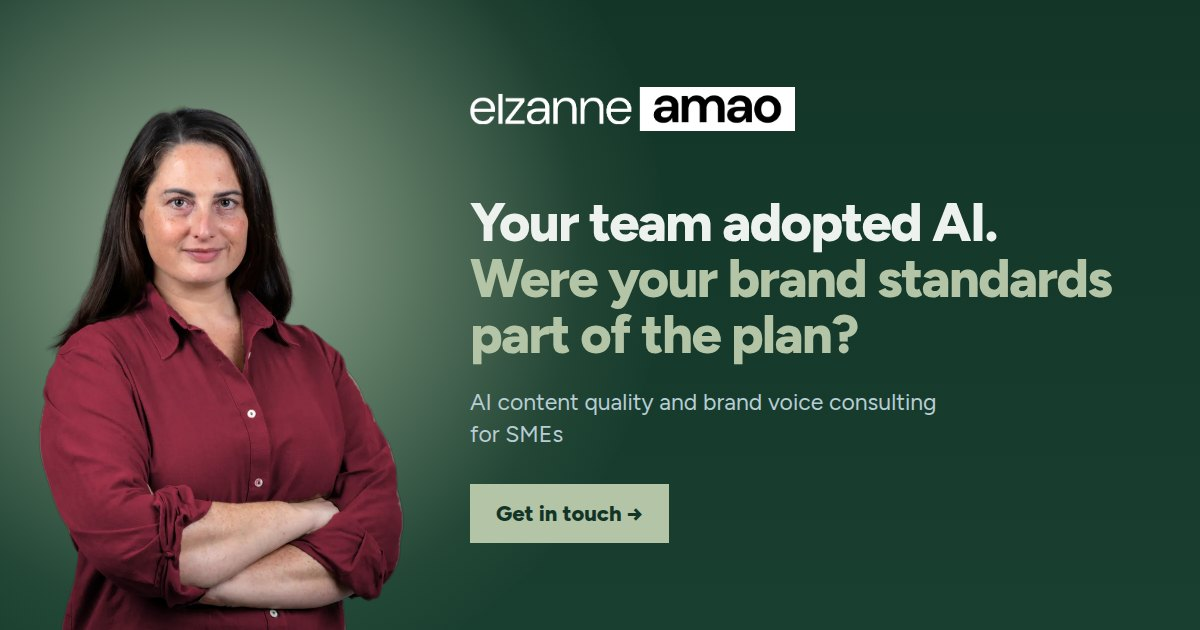
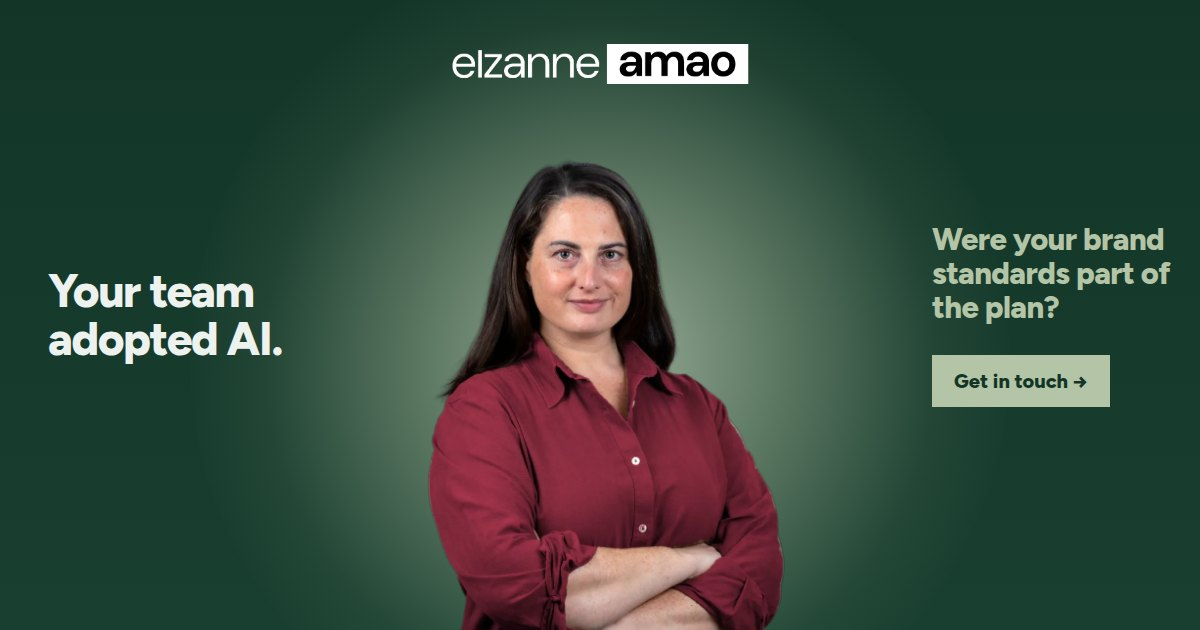
Fix in-page form submit on Netlify, WhatsApp-safe preview image, shorter titles
Netlify strips data-netlify from deployed HTML, so the submit handler
now finds forms by their hidden form-name field. The preview image is
recomposed so its centre square (WhatsApp's crop) shows the logo and
portrait, and its URL is versioned to refresh cached previews. Titles
over 60 characters are shortened.

Claude-Session: https://claude.ai/code/session_01W2eg56KgkHtMgtU5HhNPaQ

diff --git a/index.html b/index.html
@@ -44,19 +44,19 @@
   <link rel="icon" type="image/png" sizes="32x32" href="images/favicon-32.png">
   <link rel="icon" type="image/png" sizes="512x512" href="images/favicon-512.png">
   <link rel="apple-touch-icon" href="images/apple-touch-icon.png">
-<title>Elzanne Amao Consulting — AI content quality and brand voice consulting for SMEs</title>
+<title>Elzanne Amao — AI content and brand voice consulting</title>
 <meta name="description" content="Independent AI content consulting for businesses where AI tools are already in use. I audit content quality, diagnose brand voice drift, and build documented systems your team owns. Based in Cape Town, working remotely.">
 <link rel="canonical" href="https://elzanneamao.netlify.app/">
-<meta property="og:title" content="Elzanne Amao Consulting — AI content quality and brand voice consulting for SMEs">
+<meta property="og:title" content="Elzanne Amao — AI content and brand voice consulting">
 <meta property="og:description" content="Independent AI content consulting for businesses where AI tools are already in use. I audit content quality, diagnose brand voice drift, and build documented systems your team owns.">
 <meta property="og:type" content="website">
 <meta property="og:url" content="https://elzanneamao.netlify.app/">
-<meta property="og:image" content="https://elzanneamao.netlify.app/images/og-image.jpg">
+<meta property="og:image" content="https://elzanneamao.netlify.app/images/og-image.jpg?v=2">
 <meta property="og:locale" content="en_ZA">
 <meta name="twitter:card" content="summary_large_image">
-<meta name="twitter:title" content="Elzanne Amao Consulting — AI content quality and brand voice consulting for SMEs">
+<meta name="twitter:title" content="Elzanne Amao — AI content and brand voice consulting">
 <meta name="twitter:description" content="Independent AI content consulting for businesses where AI tools are already in use. I audit content quality, diagnose brand voice drift, and build documented systems your team owns.">
-<meta name="twitter:image" content="https://elzanneamao.netlify.app/images/og-image.jpg">
+<meta name="twitter:image" content="https://elzanneamao.netlify.app/images/og-image.jpg?v=2">
 <script type="application/ld+json">
 {
   "@context": "https://schema.org",
@@ -133,7 +133,7 @@
 <link rel="preconnect" href="https://fonts.googleapis.com">
 <link rel="preconnect" href="https://fonts.gstatic.com" crossorigin>
 <link href="https://fonts.googleapis.com/css2?family=Figtree:wght@400..800&display=swap" rel="stylesheet">
-<link rel="stylesheet" href="site.css?v=13">
+<link rel="stylesheet" href="site.css?v=14">
 <style>
   /* Homepage-only styles. Shared styles are in site.css */
   .hero-band{overflow:hidden;padding:96px 0 0;background:linear-gradient(180deg,var(--night) 0%,var(--night-2) 100%)}
@@ -511,6 +511,6 @@
   </div>
 </footer>
 
-<script src="site.js?v=13"></script>
+<script src="site.js?v=14"></script>
 </body>
 </html>

diff --git a/inscape-case-study.html b/inscape-case-study.html
@@ -28,24 +28,24 @@
   <link rel="icon" type="image/png" sizes="32x32" href="images/favicon-32.png">
   <link rel="icon" type="image/png" sizes="512x512" href="images/favicon-512.png">
   <link rel="apple-touch-icon" href="images/apple-touch-icon.png">
-<title>Restructuring a BA Degree for Distance Delivery — Elzanne Amao</title>
+<title>Restructuring a BA Degree for Distance Delivery</title>
 <meta name="description" content="A complete curriculum and instructional-design overhaul that adapted a traditional BA programme for digital-first, remote engagement while holding its academic rigour.">
 <link rel="canonical" href="https://elzanneamao.netlify.app/inscape-case-study.html">
-<meta property="og:title" content="Restructuring a BA Degree for Distance Delivery — Elzanne Amao">
+<meta property="og:title" content="Restructuring a BA Degree for Distance Delivery">
 <meta property="og:description" content="A complete curriculum and instructional-design overhaul that adapted a traditional BA programme for digital-first, remote engagement while holding its academic rigour.">
 <meta property="og:type" content="website">
 <meta property="og:url" content="https://elzanneamao.netlify.app/inscape-case-study.html">
-<meta property="og:image" content="https://elzanneamao.netlify.app/images/og-image.jpg">
+<meta property="og:image" content="https://elzanneamao.netlify.app/images/og-image.jpg?v=2">
 <meta property="og:locale" content="en_ZA">
 <meta name="twitter:card" content="summary_large_image">
-<meta name="twitter:title" content="Restructuring a BA Degree for Distance Delivery — Elzanne Amao">
+<meta name="twitter:title" content="Restructuring a BA Degree for Distance Delivery">
 <meta name="twitter:description" content="A complete curriculum and instructional-design overhaul that adapted a traditional BA programme for digital-first, remote engagement while holding its academic rigour.">
-<meta name="twitter:image" content="https://elzanneamao.netlify.app/images/og-image.jpg">
+<meta name="twitter:image" content="https://elzanneamao.netlify.app/images/og-image.jpg?v=2">
 <script>document.documentElement.classList.remove('no-js');document.documentElement.classList.add('js');</script>
 <link rel="preconnect" href="https://fonts.googleapis.com">
 <link rel="preconnect" href="https://fonts.gstatic.com" crossorigin>
 <link href="https://fonts.googleapis.com/css2?family=Figtree:wght@400..800&display=swap" rel="stylesheet">
-<link rel="stylesheet" href="site.css?v=13">
+<link rel="stylesheet" href="site.css?v=14">
 <style>
   /* Case study page styles. Shared styles are in site.css */
   .cs-section{padding:0 0 96px}
@@ -281,6 +281,6 @@
   </div>
 </footer>
 
-<script src="site.js?v=13"></script>
+<script src="site.js?v=14"></script>
 </body>
 </html>

diff --git a/ai-integrated-content-system-design.html b/ai-integrated-content-system-design.html
@@ -3,19 +3,19 @@
 <head>
   <meta charset="UTF-8">
   <meta name="viewport" content="width=device-width, initial-scale=1.0">
-  <title>AI-Integrated Content System Design — Elzanne Amao Consulting</title>
+  <title>AI-Integrated Content System Design — Elzanne Amao</title>
   <meta name="description" content="A documented content operations system for AI-assisted work: workflow, prompt architecture per channel, decision rights, and team training. Built for your business, handed over at completion.">
   <link rel="canonical" href="https://elzanneamao.netlify.app/ai-integrated-content-system-design.html">
-  <meta property="og:title" content="AI-Integrated Content System Design — Elzanne Amao Consulting">
+  <meta property="og:title" content="AI-Integrated Content System Design — Elzanne Amao">
   <meta property="og:description" content="A documented content operations system for AI-assisted work: workflow, prompt architecture per channel, decision rights, and team training. Built for your business, handed over at completion.">
   <meta property="og:type" content="website">
   <meta property="og:url" content="https://elzanneamao.netlify.app/ai-integrated-content-system-design.html">
-  <meta property="og:image" content="https://elzanneamao.netlify.app/images/og-image.jpg">
+  <meta property="og:image" content="https://elzanneamao.netlify.app/images/og-image.jpg?v=2">
   <meta property="og:locale" content="en_ZA">
   <meta name="twitter:card" content="summary_large_image">
-  <meta name="twitter:title" content="AI-Integrated Content System Design — Elzanne Amao Consulting">
+  <meta name="twitter:title" content="AI-Integrated Content System Design — Elzanne Amao">
   <meta name="twitter:description" content="A documented content operations system for AI-assisted work: workflow, prompt architecture per channel, decision rights, and team training. Built for your business, handed over at completion.">
-  <meta name="twitter:image" content="https://elzanneamao.netlify.app/images/og-image.jpg">
+  <meta name="twitter:image" content="https://elzanneamao.netlify.app/images/og-image.jpg?v=2">
   <script type="application/ld+json">
   {
     "@context": "https://schema.org",
@@ -101,7 +101,7 @@
 <link rel="preconnect" href="https://fonts.googleapis.com">
   <link rel="preconnect" href="https://fonts.gstatic.com" crossorigin>
 <link href="https://fonts.googleapis.com/css2?family=Figtree:wght@400..800&display=swap" rel="stylesheet">
-<link rel="stylesheet" href="site.css?v=13">
+<link rel="stylesheet" href="site.css?v=14">
 <style>
   /* Page styles live in site.css (Service pages section) */
 </style>
@@ -330,6 +330,6 @@
   </div>
 </footer>
 
-<script src="site.js?v=13"></script>
+<script src="site.js?v=14"></script>
 </body>
 </html>

diff --git a/ai-advisory-sme-leadership.html b/ai-advisory-sme-leadership.html
@@ -3,25 +3,25 @@
 <head>
   <meta charset="UTF-8">
   <meta name="viewport" content="width=device-width, initial-scale=1.0">
-  <title>AI Advisory Retainer for SME Leadership — Elzanne Amao Consulting</title>
+  <title>AI Advisory Retainer for SME Leadership — Elzanne Amao</title>
   <meta name="description" content="Ongoing strategic oversight for businesses managing AI-assisted content operations. Two calls per month, async support, quarterly review. Three-month minimum engagement.">
   <link rel="canonical" href="https://elzanneamao.netlify.app/ai-advisory-sme-leadership.html">
-  <meta property="og:title" content="AI Advisory Retainer for SME Leadership — Elzanne Amao Consulting">
+  <meta property="og:title" content="AI Advisory Retainer for SME Leadership — Elzanne Amao">
   <meta property="og:description" content="Ongoing strategic oversight for businesses managing AI-assisted content operations. Two calls per month, async support, quarterly review. Three-month minimum engagement.">
   <meta property="og:type" content="website">
   <meta property="og:url" content="https://elzanneamao.netlify.app/ai-advisory-sme-leadership.html">
-  <meta property="og:image" content="https://elzanneamao.netlify.app/images/og-image.jpg">
+  <meta property="og:image" content="https://elzanneamao.netlify.app/images/og-image.jpg?v=2">
   <meta property="og:locale" content="en_ZA">
   <meta name="twitter:card" content="summary_large_image">
-  <meta name="twitter:title" content="AI Advisory Retainer for SME Leadership — Elzanne Amao Consulting">
+  <meta name="twitter:title" content="AI Advisory Retainer for SME Leadership — Elzanne Amao">
   <meta name="twitter:description" content="Ongoing strategic oversight for businesses managing AI-assisted content operations. Two calls per month, async support, quarterly review.">
-  <meta name="twitter:image" content="https://elzanneamao.netlify.app/images/og-image.jpg">
+  <meta name="twitter:image" content="https://elzanneamao.netlify.app/images/og-image.jpg?v=2">
   <link rel="icon" type="image/png" sizes="32x32" href="images/favicon-32.png">
   <link rel="apple-touch-icon" href="images/apple-touch-icon.png">
 <link rel="preconnect" href="https://fonts.googleapis.com">
   <link rel="preconnect" href="https://fonts.gstatic.com" crossorigin>
 <link href="https://fonts.googleapis.com/css2?family=Figtree:wght@400..800&display=swap" rel="stylesheet">
-<link rel="stylesheet" href="site.css?v=13">
+<link rel="stylesheet" href="site.css?v=14">
 <style>
   /* Page styles live in site.css (Service pages section) */
 </style>
@@ -176,6 +176,6 @@
   </div>
 </footer>
 
-<script src="site.js?v=13"></script>
+<script src="site.js?v=14"></script>
 </body>
 </html>

diff --git a/ai-content-operations-audit.html b/ai-content-operations-audit.html
@@ -10,12 +10,12 @@
   <meta property="og:description" content="A diagnostic assessment of your content quality and brand coherence after AI adoption. Written report with specific findings, competitor analysis, and prioritised recommendations.">
   <meta property="og:type" content="website">
   <meta property="og:url" content="https://elzanneamao.netlify.app/ai-content-operations-audit.html">
-  <meta property="og:image" content="https://elzanneamao.netlify.app/images/og-image.jpg">
+  <meta property="og:image" content="https://elzanneamao.netlify.app/images/og-image.jpg?v=2">
   <meta property="og:locale" content="en_ZA">
   <meta name="twitter:card" content="summary_large_image">
   <meta name="twitter:title" content="AI Content Operations Audit — Elzanne Amao Consulting">
   <meta name="twitter:description" content="A diagnostic assessment of your content quality and brand coherence after AI adoption. Written report with specific findings, competitor analysis, and prioritised recommendations.">
-  <meta name="twitter:image" content="https://elzanneamao.netlify.app/images/og-image.jpg">
+  <meta name="twitter:image" content="https://elzanneamao.netlify.app/images/og-image.jpg?v=2">
   <script type="application/ld+json">
   {
     "@context": "https://schema.org",
@@ -101,7 +101,7 @@
 <link rel="preconnect" href="https://fonts.googleapis.com">
   <link rel="preconnect" href="https://fonts.gstatic.com" crossorigin>
 <link href="https://fonts.googleapis.com/css2?family=Figtree:wght@400..800&display=swap" rel="stylesheet">
-<link rel="stylesheet" href="site.css?v=13">
+<link rel="stylesheet" href="site.css?v=14">
 <style>
   /* Page styles live in site.css (Service pages section) */
 </style>
@@ -330,6 +330,6 @@
   </div>
 </footer>
 
-<script src="site.js?v=13"></script>
+<script src="site.js?v=14"></script>
 </body>
 </html>

diff --git a/about.html b/about.html
@@ -33,17 +33,17 @@
 <meta property="og:description" content="16 years in content strategy and brand communication. I work with SMEs to assess and fix the quality and coherence of AI-generated content. Based in Cape Town, working remotely.">
 <meta property="og:type" content="website">
 <meta property="og:url" content="https://elzanneamao.netlify.app/about.html">
-<meta property="og:image" content="https://elzanneamao.netlify.app/images/og-image.jpg">
+<meta property="og:image" content="https://elzanneamao.netlify.app/images/og-image.jpg?v=2">
 <meta property="og:locale" content="en_ZA">
 <meta name="twitter:card" content="summary_large_image">
 <meta name="twitter:title" content="About Elzanne Amao — AI Content Strategy Consultant">
 <meta name="twitter:description" content="16 years in content strategy and brand communication. I work with SMEs to assess and fix the quality and coherence of AI-generated content.">
-<meta name="twitter:image" content="https://elzanneamao.netlify.app/images/og-image.jpg">
+<meta name="twitter:image" content="https://elzanneamao.netlify.app/images/og-image.jpg?v=2">
 <script>document.documentElement.classList.remove('no-js');document.documentElement.classList.add('js');</script>
 <link rel="preconnect" href="https://fonts.googleapis.com">
 <link rel="preconnect" href="https://fonts.gstatic.com" crossorigin>
 <link href="https://fonts.googleapis.com/css2?family=Figtree:wght@400..800&display=swap" rel="stylesheet">
-<link rel="stylesheet" href="site.css?v=13">
+<link rel="stylesheet" href="site.css?v=14">
 <style>
   /* About page styles. Shared styles are in site.css */
   .about-hero{padding:0;overflow:hidden}
@@ -183,6 +183,6 @@
   </div>
 </footer>
 
-<script src="site.js?v=13"></script>
+<script src="site.js?v=14"></script>
 </body>
 </html>

diff --git a/think-orion-case-study.html b/think-orion-case-study.html
@@ -39,17 +39,17 @@
 <meta property="og:description" content="How I designed and implemented a client onboarding infrastructure bridging sales and operations for a fast-scaling marketing agency.">
 <meta property="og:type" content="website">
 <meta property="og:url" content="https://elzanneamao.netlify.app/think-orion-case-study.html">
-<meta property="og:image" content="https://elzanneamao.netlify.app/images/og-image.jpg">
+<meta property="og:image" content="https://elzanneamao.netlify.app/images/og-image.jpg?v=2">
 <meta property="og:locale" content="en_ZA">
 <meta name="twitter:card" content="summary_large_image">
 <meta name="twitter:title" content="Building Think Orion's Onboarding System — Elzanne Amao">
 <meta name="twitter:description" content="How I designed and implemented a client onboarding infrastructure bridging sales and operations for a fast-scaling marketing agency.">
-<meta name="twitter:image" content="https://elzanneamao.netlify.app/images/og-image.jpg">
+<meta name="twitter:image" content="https://elzanneamao.netlify.app/images/og-image.jpg?v=2">
 <script>document.documentElement.classList.remove('no-js');document.documentElement.classList.add('js');</script>
 <link rel="preconnect" href="https://fonts.googleapis.com">
 <link rel="preconnect" href="https://fonts.gstatic.com" crossorigin>
 <link href="https://fonts.googleapis.com/css2?family=Figtree:wght@400..800&display=swap" rel="stylesheet">
-<link rel="stylesheet" href="site.css?v=13">
+<link rel="stylesheet" href="site.css?v=14">
 <style>
   /* Case study page styles. Shared styles are in site.css */
   .body-section{padding:112px 0}
@@ -227,6 +227,6 @@
   </div>
 </footer>
 
-<script src="site.js?v=13"></script>
+<script src="site.js?v=14"></script>
 </body>
 </html>

diff --git a/site.js b/site.js
@@ -83,8 +83,10 @@ document.addEventListener('DOMContentLoaded', () => {
     show(0);
   });
 
-  // Netlify forms: submit in the background and thank the visitor on the page
-  document.querySelectorAll('form[data-netlify="true"]').forEach(form => {
+  // Netlify forms: submit in the background and thank the visitor on the page.
+  // Select by the hidden form-name field: Netlify strips data-netlify when it deploys.
+  document.querySelectorAll('form').forEach(form => {
+    if (!form.querySelector('input[name="form-name"]')) return;
     form.addEventListener('submit', async e => {
       e.preventDefault();
       const btn = form.querySelector('[type="submit"]');
